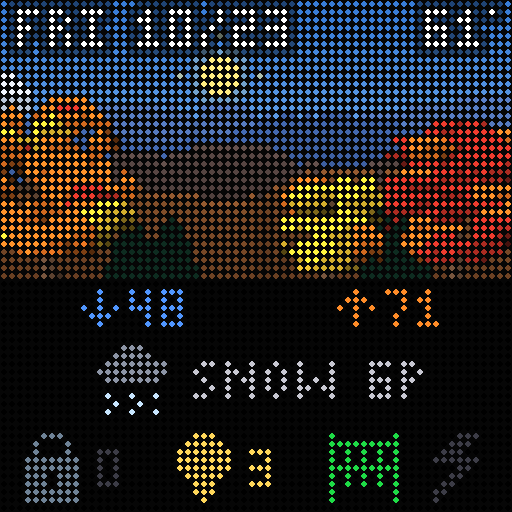
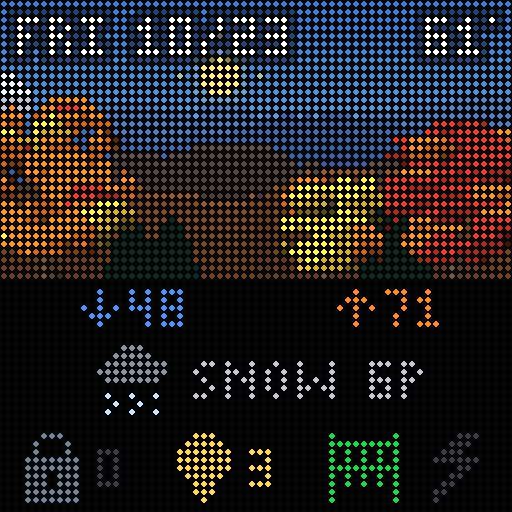
Inset the date and temperature one pixel from the top edge as well

diff --git a/tests/test_scene.py b/tests/test_scene.py
@@ -141,8 +141,8 @@ def test_date_overlay_is_top_left_and_readable_day_and_night():
     for name in ("clear_day", "clear_night"):
         img = render_state(sample_state(name), 0.0)
         box = img.crop((0, 0, 36, 8)).point(lambda v: 255 if v > 240 else 0).convert("L").getbbox()
-        assert box is not None and box[0] >= 2 and box[1] >= 1, name     # white text, clear of the edge
-        corner = img.crop((1, 1, 2, 2)).getpixel((0, 0))
+        assert box is not None and box[0] >= 2 and box[1] >= 2, name     # white text, shadow included clear of the edge
+        corner = img.crop((1, 3, 2, 4)).getpixel((0, 0))
         assert max(corner) < 200, name                                   # outline darkens the sky
 
 

diff --git a/src/matrix_display/scene/scene.py b/src/matrix_display/scene/scene.py
@@ -74,8 +74,8 @@ def _season(state: AppState) -> int:
 
 
 def _overlay(img: Image.Image, glyph: Image.Image, outline: Image.Image, x: int) -> None:
-    img.paste((0, 0, 0), (x, 0), outline)
-    img.paste((255, 255, 255), (x, 0), glyph)
+    img.paste((0, 0, 0), (x, EDGE_MARGIN), outline)
+    img.paste((255, 255, 255), (x, EDGE_MARGIN), glyph)
 
 
 def _paste_text(img: Image.Image, text: str) -> None:
